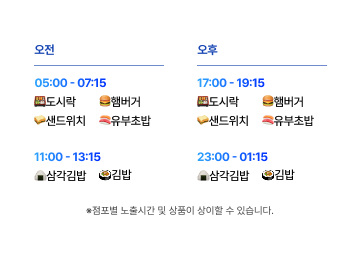
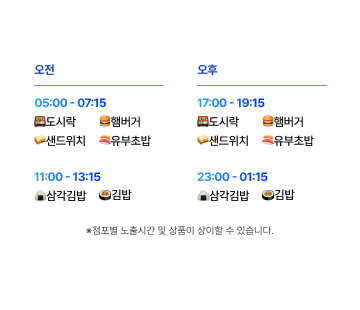
feat: 이미지교체, css 수정

diff --git a/src/uiPub/popUp/gsrbr0401.vue b/src/uiPub/popUp/gsrbr0401.vue
@@ -328,7 +328,7 @@ section p.txt_sub{margin-top:8px;color:#67676F;font-weight: 400;font-size: 1.6re
 .how_to_list .card_tit > span.num {margin-bottom:6px;color: #107af2; font-size: 1.6rem; font-weight: 700; line-height: 1.24; display: block;}
 .how_to_list .card_tit > strong { color: #161616; font-size: 1.6rem; font-weight: 700; line-height: 1.24; display: block;}
 .how_to_list > li p.txt_sub{margin-top:6px;}
-.how_to_list > li > figure { width: 100%; height: 260px; margin-top: 40px; }
+.how_to_list > li > figure { width: 100%; height: auto; margin-top: 40px; }
 .how_to_list > li > figure > img { width: 100%; height: 100%; object-fit: contain; }
 
 /* Responsive */
@@ -357,7 +357,5 @@ section p.txt_sub{margin-top:8px;color:#67676F;font-weight: 400;font-size: 1.6re
 
     /* 26.06.10 add 정다희 */
     .how_to_list { grid-template-columns: 1fr; }
-    .discount_section .how_to_list > li > figure { height: auto; }
-    .discount_section .how_to_list > li > figure > img { height: auto; }
 }
 </style>
